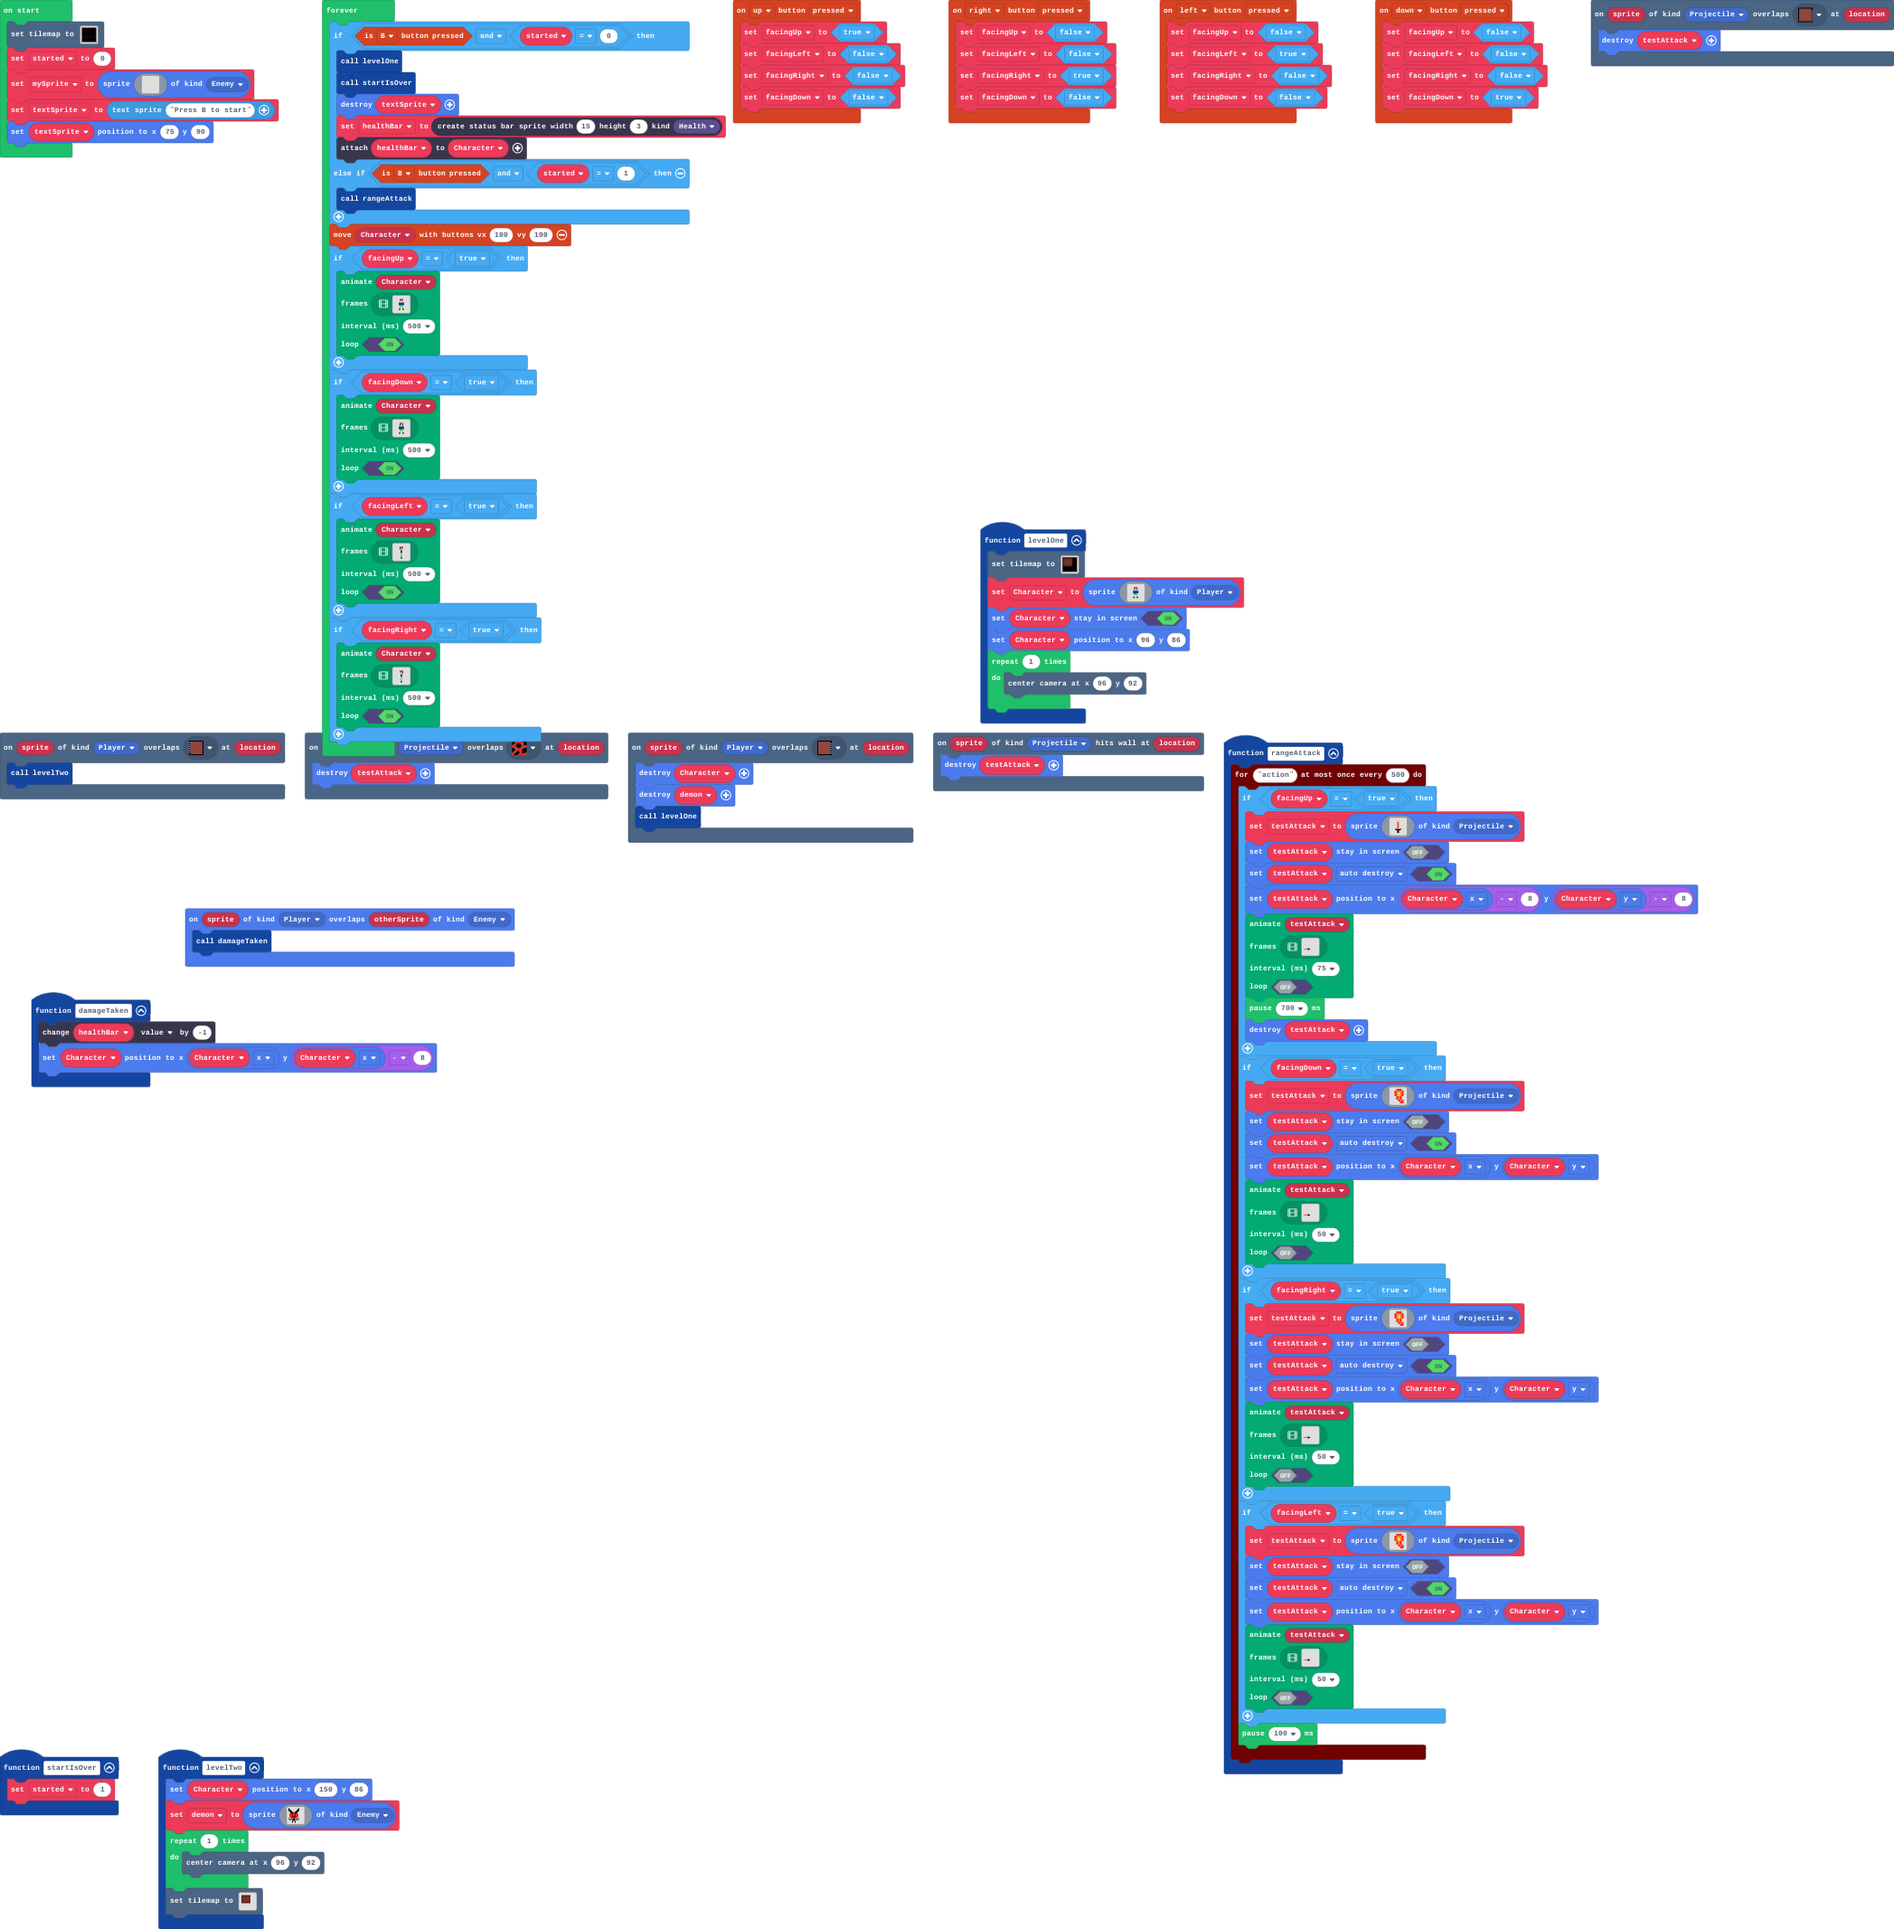
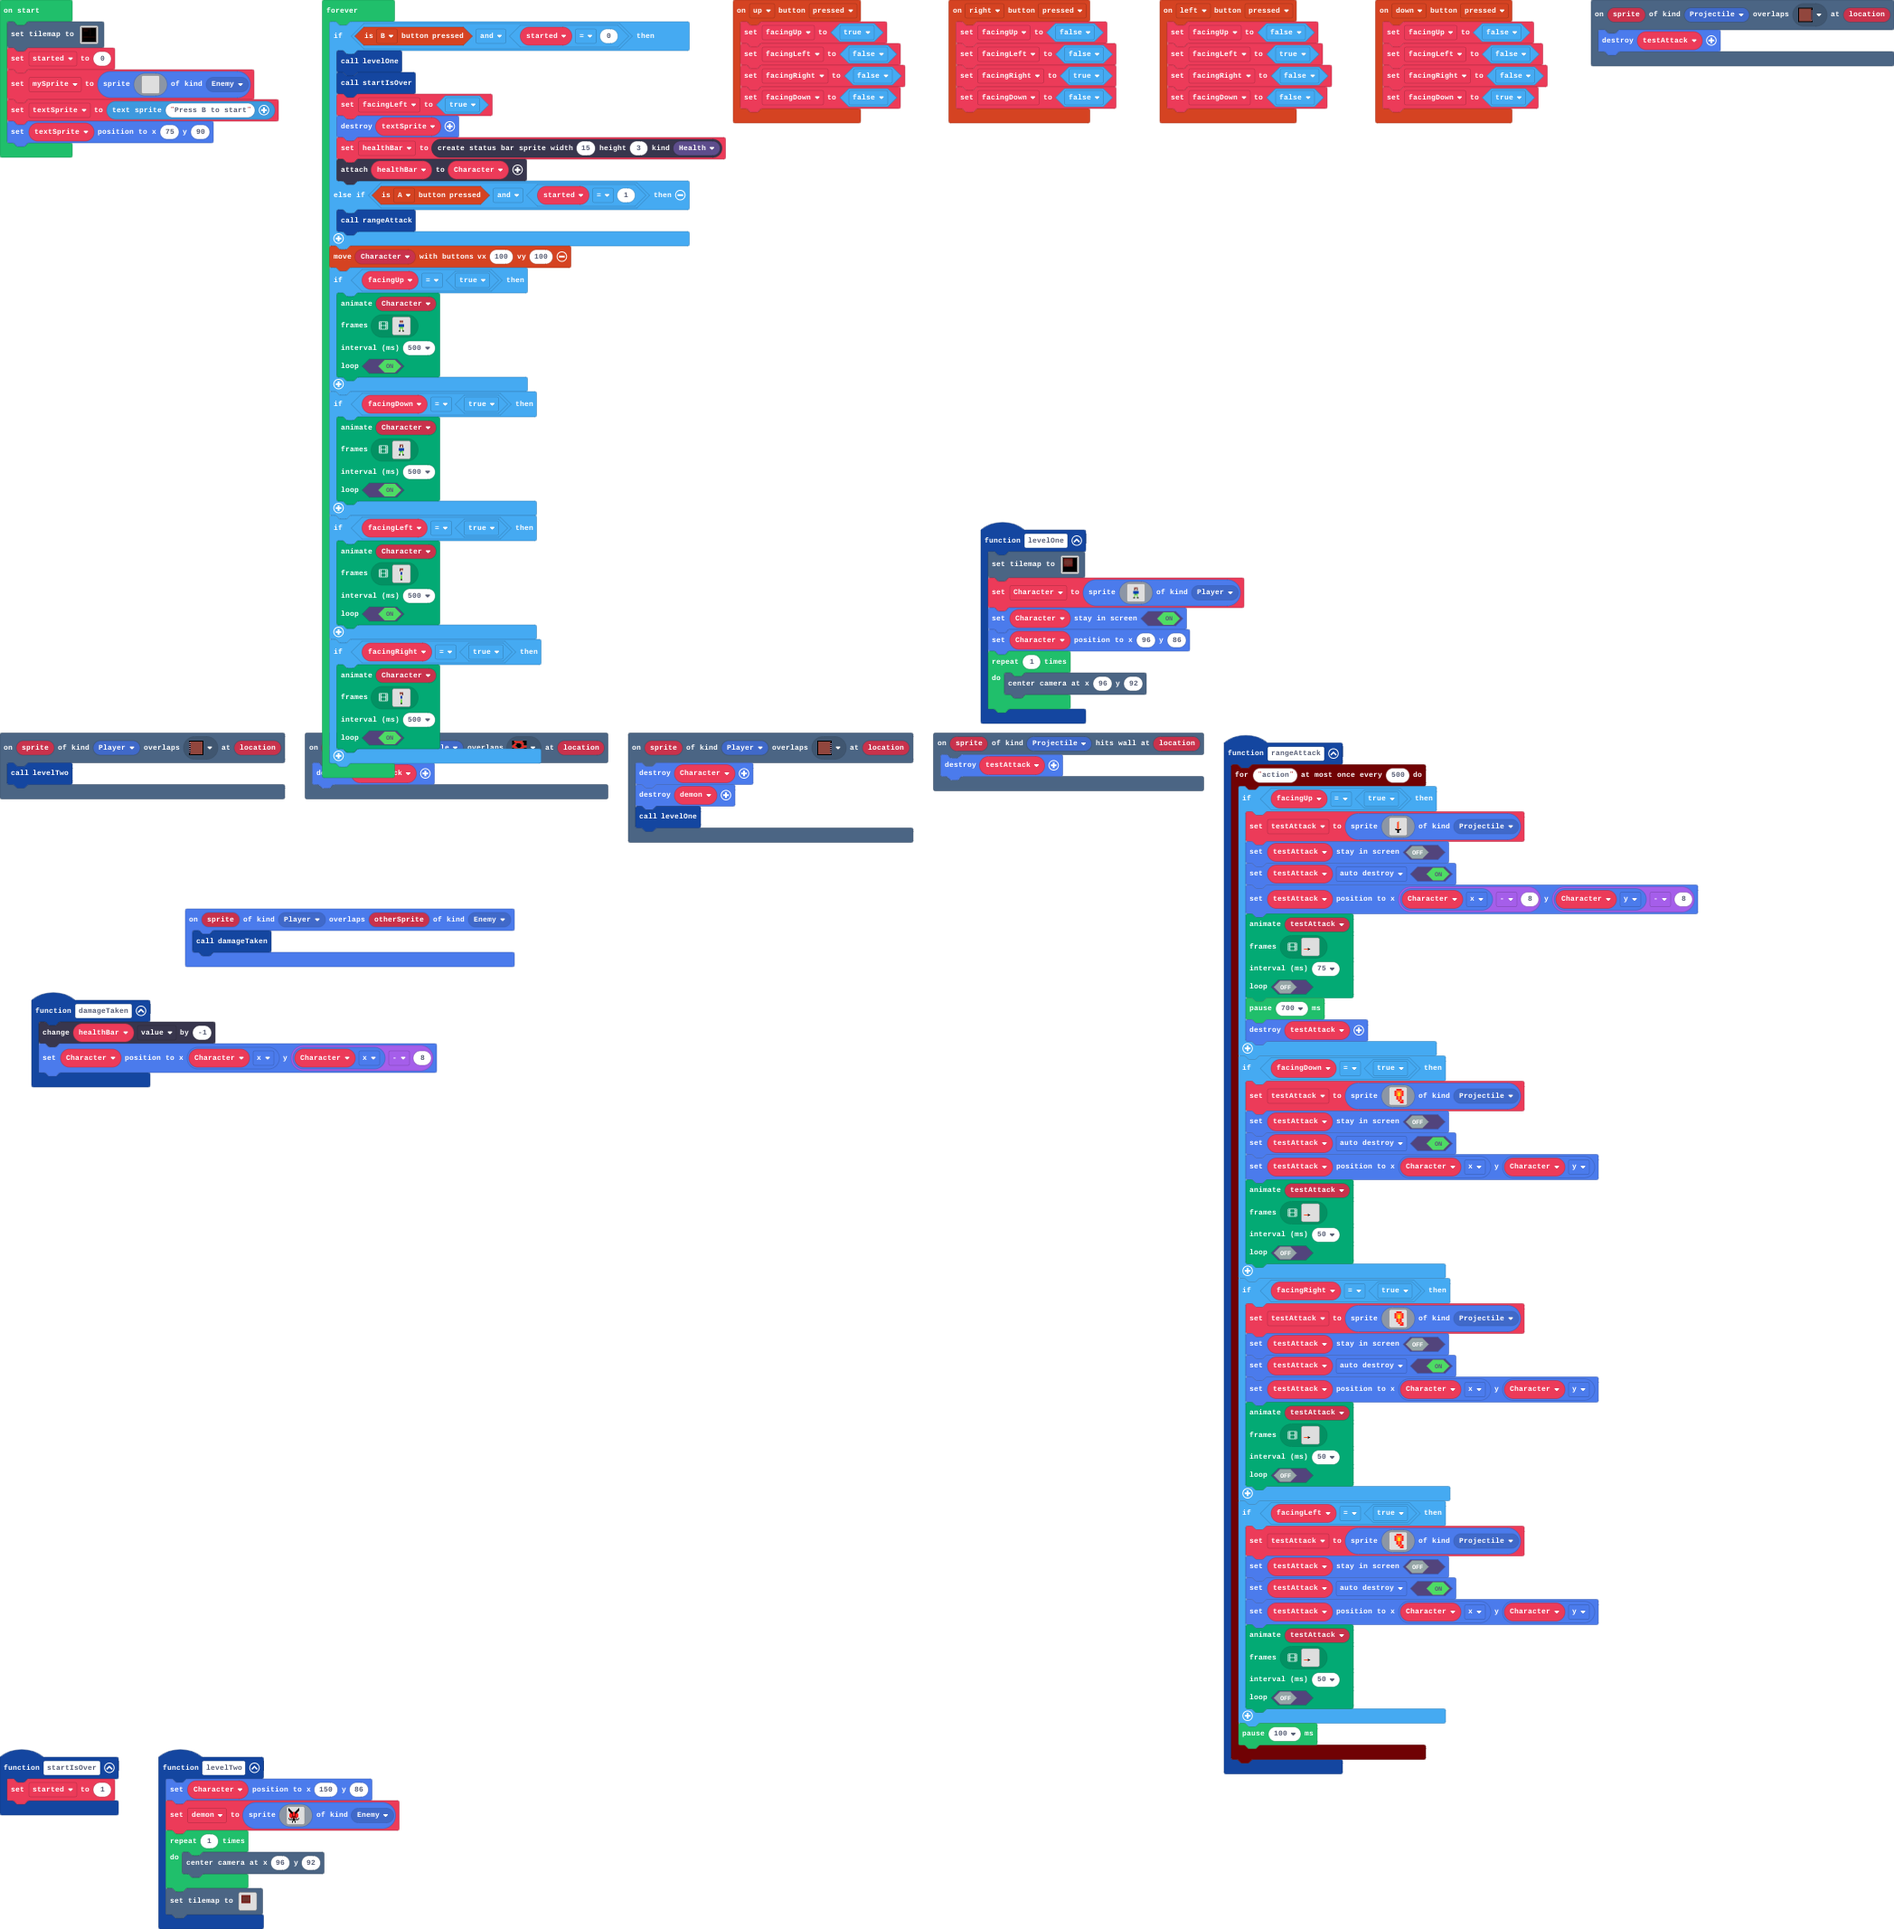
Update main.blocks, main.ts, tilemap.g.jres, tilemap.g.ts

Changed region(s): [[0.1551, 0.0309, 0.4033, 0.4023]]

diff --git a/tilemap.g.ts b/tilemap.g.ts
@@ -169,6 +169,63 @@ namespace myTiles {
 . . . . . . . . . . . . . . . . 
 . . . . . . . . . . . . . . . . 
 `, [myTiles.transparency16,myTiles.tile17,myTiles.tile21,myTiles.tile1,myTiles.tile22,myTiles.tile23,myTiles.tile25,myTiles.tile20], TileScale.Sixteen);
+            case "level7":
+            case "level7":return tiles.createTilemap(hex`1000100000000000000000000000000000000000000000000000000000000000000000000000000000000000000000000000000000000000000000000000000000000000000000000000000000000000000000000000000000000000000000000000000000000000000000000000000000000000000000000000000000000000000000000000000000000000000000000000000000000000000000000000000000000000000000000000000000000000000000000000000000000000000000000000000000000000000000000000000000000000000000000000000000000000000000000000000000000000000000000000000000000000000000000000000000000000`, img`
+. . . . . . . . . . . . . . . . 
+. . . . . . . . . . . . . . . . 
+. . . . . . . . . . . . . . . . 
+. . . . . . . . . . . . . . . . 
+. . . . . . . . . . . . . . . . 
+. . . . . . . . . . . . . . . . 
+. . . . . . . . . . . . . . . . 
+. . . . . . . . . . . . . . . . 
+. . . . . . . . . . . . . . . . 
+. . . . . . . . . . . . . . . . 
+. . . . . . . . . . . . . . . . 
+. . . . . . . . . . . . . . . . 
+. . . . . . . . . . . . . . . . 
+. . . . . . . . . . . . . . . . 
+. . . . . . . . . . . . . . . . 
+. . . . . . . . . . . . . . . . 
+`, [myTiles.transparency16], TileScale.Sixteen);
+            case "level8":
+            case "level8":return tiles.createTilemap(hex`1000100000000000000000000000000000000000000000000000000000000000000000000000000000000000000000000000000000000000000000000000000000000000000000000000000000000000000000000000000000000000000000000000000000000000000000000000000000000000000000000000000000000000000000000000000000000000000000000000000000000000000000000000000000000000000000000000000000000000000000000000000000000000000000000000000000000000000000000000000000000000000000000000000000000000000000000000000000000000000000000000000000000000000000000000000000000000`, img`
+. . . . . . . . . . . . . . . . 
+. . . . . . . . . . . . . . . . 
+. . . . . . . . . . . . . . . . 
+. . . . . . . . . . . . . . . . 
+. . . . . . . . . . . . . . . . 
+. . . . . . . . . . . . . . . . 
+. . . . . . . . . . . . . . . . 
+. . . . . . . . . . . . . . . . 
+. . . . . . . . . . . . . . . . 
+. . . . . . . . . . . . . . . . 
+. . . . . . . . . . . . . . . . 
+. . . . . . . . . . . . . . . . 
+. . . . . . . . . . . . . . . . 
+. . . . . . . . . . . . . . . . 
+. . . . . . . . . . . . . . . . 
+. . . . . . . . . . . . . . . . 
+`, [myTiles.transparency16], TileScale.Sixteen);
+            case "level9":
+            case "level9":return tiles.createTilemap(hex`1000100000000000000000000000000000000000000000000000000000000000000000000000000000000000000000000000000000000000000000000000000000000000000000000000000000000000000000000000000000000000000000000000000000000000000000000000000000000000000000000000000000000000000000000000000000000000000000000000000000000000000000000000000000000000000000000000000000000000000000000000000000000000000000000000000000000000000000000000000000000000000000000000000000000000000000000000000000000000000000000000000000000000000000000000000000000000`, img`
+. . . . . . . . . . . . . . . . 
+. . . . . . . . . . . . . . . . 
+. . . . . . . . . . . . . . . . 
+. . . . . . . . . . . . . . . . 
+. . . . . . . . . . . . . . . . 
+. . . . . . . . . . . . . . . . 
+. . . . . . . . . . . . . . . . 
+. . . . . . . . . . . . . . . . 
+. . . . . . . . . . . . . . . . 
+. . . . . . . . . . . . . . . . 
+. . . . . . . . . . . . . . . . 
+. . . . . . . . . . . . . . . . 
+. . . . . . . . . . . . . . . . 
+. . . . . . . . . . . . . . . . 
+. . . . . . . . . . . . . . . . 
+. . . . . . . . . . . . . . . . 
+`, [myTiles.transparency16], TileScale.Sixteen);
         }
         return null;
     })

diff --git a/main.ts b/main.ts
@@ -232,16 +232,17 @@ let mySprite = sprites.create(img`
     . . . . . . . . . . . . . . . . 
     . . . . . . . . . . . . . . . . 
     `, SpriteKind.Enemy)
-let textSprite: Sprite = textsprite.create("Press B to start")
+let textSprite = textsprite.create("Press B to start")
 textSprite.setPosition(75, 90)
 forever(function () {
     if (controller.B.isPressed() && started == 0) {
         levelOne()
         startIsOver()
+        facingLeft = true
         textSprite.destroy()
         healthBar = statusbars.create(15, 3, StatusBarKind.Health)
         healthBar.attachToSprite(Character)
-    } else if (controller.B.isPressed() && started == 1) {
+    } else if (controller.A.isPressed() && started == 1) {
         rangeAttack()
     }
     controller.moveSprite(Character, 100, 100)
